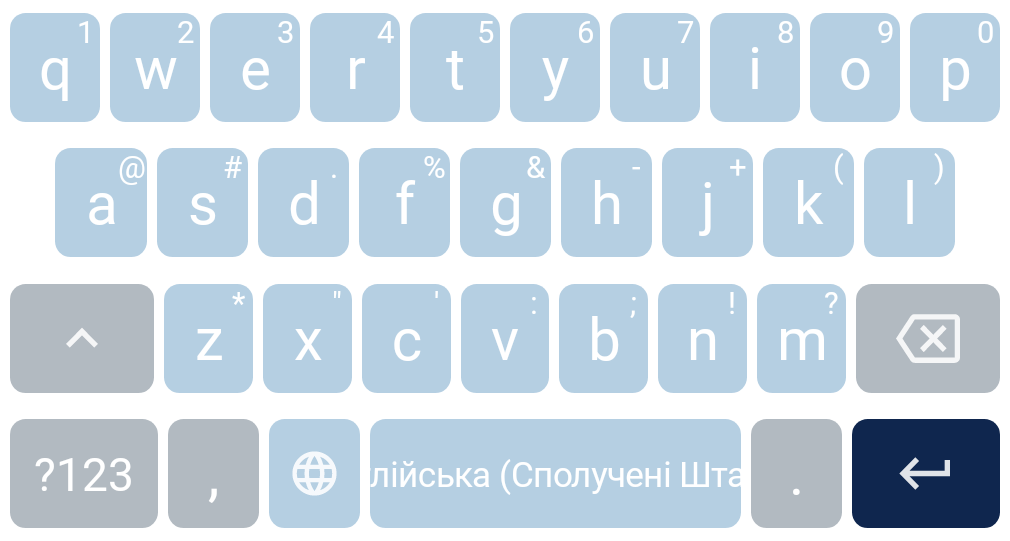
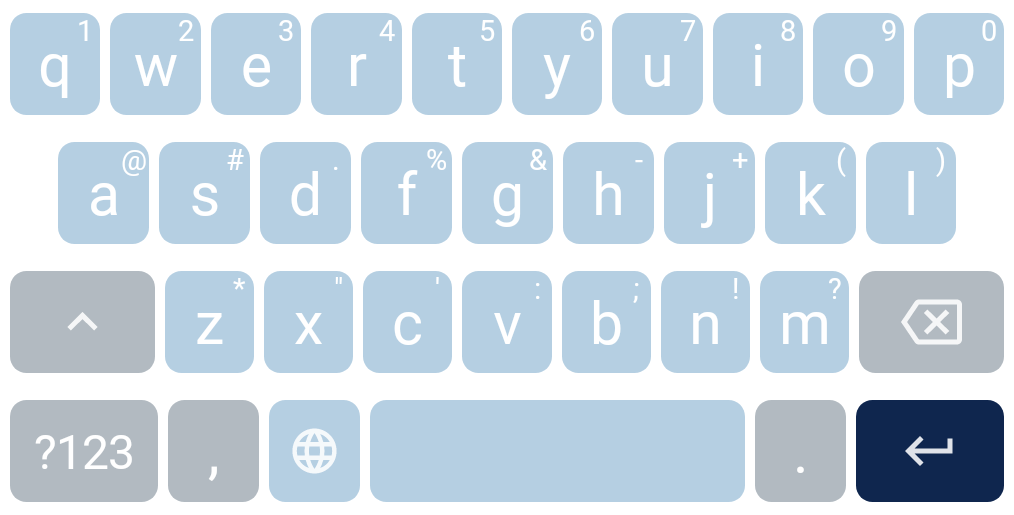
fix themes

diff --git a/app/src/main/java/dev/patrickgold/florisboard/ui/main/activity/MainActivityViewModel.kt b/app/src/main/java/dev/patrickgold/florisboard/ui/main/activity/MainActivityViewModel.kt
@@ -1,6 +1,5 @@
 package dev.patrickgold.florisboard.ui.main.activity
 
-import android.net.Uri
 import android.view.LayoutInflater
 import android.view.ViewGroup
 import androidx.databinding.ObservableBoolean
@@ -10,7 +9,6 @@ import androidx.databinding.ViewDataBinding
 import androidx.lifecycle.ViewModel
 import androidx.lifecycle.ViewModelProvider
 import androidx.lifecycle.viewModelScope
-import com.bumptech.glide.Glide
 import com.google.gson.Gson
 import dev.patrickgold.florisboard.FlorisApplication
 import dev.patrickgold.florisboard.R
@@ -56,11 +54,6 @@ class MainActivityViewModel(val adapter: VPAdapter) : BaseViewModel() {
         onItemClick = {
             if (it is NewTheme) showCreateThemeActivity()
             else onThemeClick.postValue(it as KeyboardTheme)
-        }
-        onBind = { _, binding ->
-            if (binding is ItemKeyboardNewBinding) Glide.with(binding.hiddenImage)
-                .load(Uri.parse("file:///android_asset/ime/preview/asset_1.png"))
-                .into(binding.hiddenImage)
         }
     }
 
@@ -138,7 +131,9 @@ class MainActivityViewModel(val adapter: VPAdapter) : BaseViewModel() {
                 ?.map { assets.open("${assetFolder}/$it").bufferedReader().use { theme -> theme.readText() } }
                 ?.map { gson.fromJson(it, KeyboardTheme::class.java) } ?: return@launch
 
-            themeList.forEach { it.isSelected = it == PrefsReporitory.keyboardTheme }
+            if (PrefsReporitory.keyboardTheme?.id == null) themeList.forEach {
+                it.isSelected = it.backgroundImagePath == PrefsReporitory.keyboardTheme?.backgroundImagePath
+            }
 
             withContext(Dispatchers.Main) { assetsThemeAdapter.reloadData(themeList) }
         }
@@ -148,7 +143,7 @@ class MainActivityViewModel(val adapter: VPAdapter) : BaseViewModel() {
         viewModelScope.launch(Dispatchers.Main) {
             val themes = withContext(Dispatchers.IO) { ThemeDataBase.dataBase.getThemesDao().getTheme().reversed() }
 
-            themes.forEach { it.isSelected = it == PrefsReporitory.keyboardTheme }
+            themes.forEach { it.isSelected = it.id == PrefsReporitory.keyboardTheme?.id }
             customThemeAdapter.addItems(themes)
         }
     }

diff --git a/app/src/main/java/dev/patrickgold/florisboard/data/KeyboardThemes.kt b/app/src/main/java/dev/patrickgold/florisboard/data/KeyboardThemes.kt
@@ -1,5 +1,6 @@
 package dev.patrickgold.florisboard.data
 
+import android.util.Log
 import androidx.room.Entity
 import androidx.room.Ignore
 import androidx.room.PrimaryKey
@@ -13,6 +14,7 @@ object NewTheme : Theme()
 data class KeyboardTheme(
     @PrimaryKey(autoGenerate = true)
     var id: Long? = null,
+
     var backgoundType: String? = null,
     var backgroundImagePath: String? = null,
     var backgroundColor: String? = "#292E32",
@@ -26,7 +28,8 @@ data class KeyboardTheme(
     var opacity: Int = 100,
 ) : Theme(), Serializable {
 
-    @Ignore var previewImage: String? = null
+    @Ignore
+    var previewImage: String? = null
 
     @Ignore
     var isSelected: Boolean = false
@@ -67,8 +70,7 @@ data class KeyboardTheme(
     }
 
     override fun hashCode(): Int {
-        var result = id?.hashCode() ?: 0
-        result = 31 * result + (backgoundType?.hashCode() ?: 0)
+        var result = (backgoundType?.hashCode() ?: 0)
         result = 31 * result + (backgroundImagePath?.hashCode() ?: 0)
         result = 31 * result + (backgroundColor?.hashCode() ?: 0)
         result = 31 * result + (keyFont ?: 0)

diff --git a/app/src/main/java/dev/patrickgold/florisboard/background/view/keyboard/BackgroundViewKeyboardService.kt b/app/src/main/java/dev/patrickgold/florisboard/background/view/keyboard/BackgroundViewKeyboardService.kt
@@ -3,6 +3,7 @@ package dev.patrickgold.florisboard.background.view.keyboard
 import android.annotation.SuppressLint
 import android.graphics.Color
 import android.net.Uri
+import android.util.Log
 import android.view.LayoutInflater
 import android.view.View
 import android.view.ViewGroup
@@ -47,7 +48,9 @@ class BackgroundViewKeyboardService : FlorisBoard() {
             !keyboardTheme.backgoundType.isNullOrEmpty() -> BackgroundViewRepository.BackgroundView
                 .fromName(keyboardTheme.backgoundType)
             !keyboardTheme.backgroundImagePath.isNullOrEmpty() -> BackgroundViewRepository.BackgroundView
-                .ImageView(Uri.parse(keyboardTheme.backgroundImagePath))
+                .ImageView(Uri.parse(keyboardTheme.backgroundImagePath)).also {
+                    Log.d("12345", keyboardTheme.backgroundImagePath!!)
+                }
             else -> null
         }?.let { view -> attackBackground(view.getViewFactory().createView(themeContext), backgroundContainer) }
 

diff --git a/app/src/main/java/dev/patrickgold/florisboard/ui/theme/editor/activity/ThemeEditorViewModel.kt b/app/src/main/java/dev/patrickgold/florisboard/ui/theme/editor/activity/ThemeEditorViewModel.kt
@@ -20,6 +20,7 @@ import dev.patrickgold.florisboard.databinding.ItemKeyboardBackgroundNewBinding
 import dev.patrickgold.florisboard.databinding.ItemNoColorBinding
 import dev.patrickgold.florisboard.databinding.ItemStrokeBinding
 import dev.patrickgold.florisboard.ime.text.keyboard.TextKeyboardView
+import dev.patrickgold.florisboard.repository.PrefsReporitory
 import dev.patrickgold.florisboard.ui.base.AppBaseAdapter
 import dev.patrickgold.florisboard.ui.base.BaseViewModel
 import dev.patrickgold.florisboard.ui.base.createAdapter
@@ -296,5 +297,9 @@ class ThemeEditorViewModel : BaseViewModel() {
 
     fun setCurrentKeyboard(keyboardTheme: KeyboardTheme) {
         keyboardTheme.id = ThemeDataBase.dataBase.getThemesDao().insertTheme(keyboardTheme)
+    }
+
+    fun attachKeyboard(keyboardTheme: KeyboardTheme) {
+        PrefsReporitory.keyboardTheme = keyboardTheme
     }
 }

diff --git a/app/src/main/java/dev/patrickgold/florisboard/util/BindingAdapter.kt b/app/src/main/java/dev/patrickgold/florisboard/util/BindingAdapter.kt
@@ -14,6 +14,8 @@ import androidx.databinding.BindingAdapter
 import androidx.recyclerview.widget.RecyclerView
 import androidx.viewpager2.widget.ViewPager2
 import com.bumptech.glide.Glide
+import com.bumptech.glide.load.resource.bitmap.CenterCrop
+import com.bumptech.glide.request.RequestOptions
 import com.bumptech.glide.request.target.CustomTarget
 import com.bumptech.glide.request.transition.Transition
 import com.isseiaoki.simplecropview.CropImageView
@@ -89,6 +91,7 @@ fun AppCompatImageView.setImage(uri: String?) {
     uri ?: return
     Glide.with(this)
         .load(Uri.parse(uri))
+        .apply(RequestOptions().transform(CenterCrop()))
         .into(this)
 }
 
@@ -107,7 +110,6 @@ fun AppCompatImageView.setColor(keyboardTheme: KeyboardTheme?) {
         else load(File(context.filesDir, "${keyboardTheme?.id}.png"))
     }.into(this)
 }
-
 
 object Converter {
 

diff --git a/app/src/main/java/dev/patrickgold/florisboard/ui/crop/activity/CropViewModel.kt b/app/src/main/java/dev/patrickgold/florisboard/ui/crop/activity/CropViewModel.kt
@@ -30,7 +30,7 @@ class CropViewModel : BaseViewModel() {
     }
 
     private fun saveBitmapToCacheFile(bitmap: Bitmap): String {
-        val tempImageFile = File(FlorisApplication.instance.cacheDir, getTempFileName())
+        val tempImageFile = File(FlorisApplication.instance.filesDir, getTempFileName())
         BufferedOutputStream(FileOutputStream(tempImageFile))
             .use { bitmap.compress(Bitmap.CompressFormat.PNG, 100, it) }
         return Uri.fromFile(tempImageFile).toString()

diff --git a/app/src/main/java/dev/patrickgold/florisboard/ui/crop/activity/CropActivity.kt b/app/src/main/java/dev/patrickgold/florisboard/ui/crop/activity/CropActivity.kt
@@ -14,6 +14,8 @@ class CropActivity : BaseActivity<CropViewModel, CropActivityBinding>(R.layout.c
 
     override fun setupUI() {
         viewModel.imageUri.set(intent.getStringExtra(BUNDLE_CROPPED_IMAGE_KEY))
+        binding.cropView.setCustomRatio(100,45)
+
         viewModel.cropeedImageUri.observe(this, {
             setResult(RESULT_OK, intent.putExtra(BUNDLE_CROPPED_IMAGE_KEY, it))
             finish()

diff --git a/app/src/main/java/dev/patrickgold/florisboard/ui/theme/editor/activity/ThemeEditorActivity.kt b/app/src/main/java/dev/patrickgold/florisboard/ui/theme/editor/activity/ThemeEditorActivity.kt
@@ -201,6 +201,8 @@ class ThemeEditorActivity :
             viewModel.saveKeyboardImage(binding.keyboardPreview, keyboardTheme.id)
         }
 
+        viewModel.attachKeyboard(keyboardTheme)
+
         onAttachTheme(keyboardTheme, isKeyboardHasModifications)
 
     }
